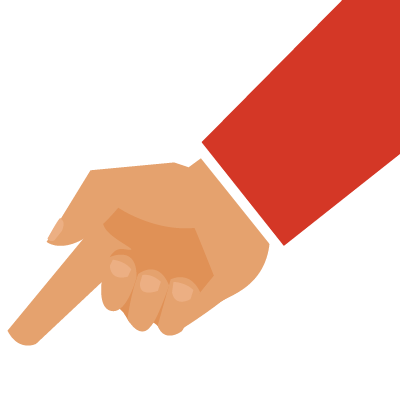
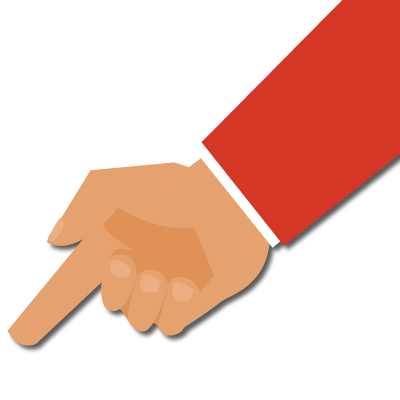
v0.0.23

diff --git a/resources/style.css b/resources/style.css
@@ -276,6 +276,13 @@ button[disabled], html input[disabled] {
     -moz-box-sizing: border-box;
 	box-sizing: content-box;
 }
+.animated {
+	 -webkit-transition: all 0.65s ease;                  
+    -moz-transition: all 0.65s ease;                 
+    -o-transition: all 0.65s ease;   
+    -ms-transition: all 0.65s ease;          
+    transition: all 0.65s ease;
+}
 
 /**
 ======================================================
@@ -304,6 +311,7 @@ Please only put css rules in here for layout related requirements.
     -moz-box-sizing: border-box;
 	box-sizing: border-box;
 }
+
 .nav-items a {
 	display: inline-block;
 	 -webkit-transition: all 0.65s ease;                  
@@ -1017,6 +1025,10 @@ input.ng-touched.ng-invalid {
 **/
 @media screen and (max-width:1200px) {
 	.slide-1-text { font-size:45px; }
+    .statement img {
+        left: calc(100% - 220px);
+        width: 300px;
+    }
 }
 @media screen and (max-width:1100px) { 
 	.they-say { 
@@ -1025,6 +1037,7 @@ input.ng-touched.ng-invalid {
     .statement {
         font-size: 30px;
     }
+    
 }
 @media screen and (max-width:961px) {  
 	.slide-1-text { font-size:35px; }
@@ -1081,7 +1094,10 @@ input.ng-touched.ng-invalid {
         float: left;
         display:block;
     }
-    
+    .statement img {
+        left: calc(100% - 220px);
+        width: 250px;
+    }
 }
 @media screen and (max-width:655px) {
     .post {
@@ -1143,6 +1159,11 @@ input.ng-touched.ng-invalid {
     .blackener .date {
         float:none;
     }
+     .statement img {
+        left: calc(100% - 150px);
+        top:20px;
+        width: 200px;
+    }
 }
  /* portrait e-readers (Nook/Kindle), smaller tablets @ 600 or @ 640 wide. */
 @media screen and (max-width:540px) { 
@@ -1173,6 +1194,11 @@ input.ng-touched.ng-invalid {
 		margin: 0 0 30px 0;
 		padding: 0;
 	}
+     .statement img {
+        left: calc(100% - 150px);
+        top:30px;
+        width: 200px;
+    }
 }
 @media screen and (max-width:410px) {
     .nav-outer {

diff --git a/resources/templates/home.html b/resources/templates/home.html
@@ -5,7 +5,7 @@
 		<div class="what-we-do-cloud what-we-do-cloud-2"></div>
 		<div class="what-we-do-cloud what-we-do-cloud-4"></div>
 	</div>
-	<div class="statement">We are Web and Mobile App Developers :) <img src="/media/images/pointer.png" /></div>
+	<div class="statement">We are Web and Mobile App Developers :) <img class="animated fade-in" src="/media/images/pointer.png" /></div>
 	
 	<div class="who-we-are">
 		<div class="slider-monitor"><div class="slides" data-ng-include="'templates/slider.html'" onload="controller.loadSlider()"></div></div>

diff --git a/README.md b/README.md
@@ -4,7 +4,7 @@ Blacktip is built in Angular and relies on [ModePress](https://github.com/MKHens
 to provide some its backend content. 
 
 ## Current stable version
-* Version v0.0.22
+* Version v0.0.23
 
 ## Requirements
 * MongoDB v3
